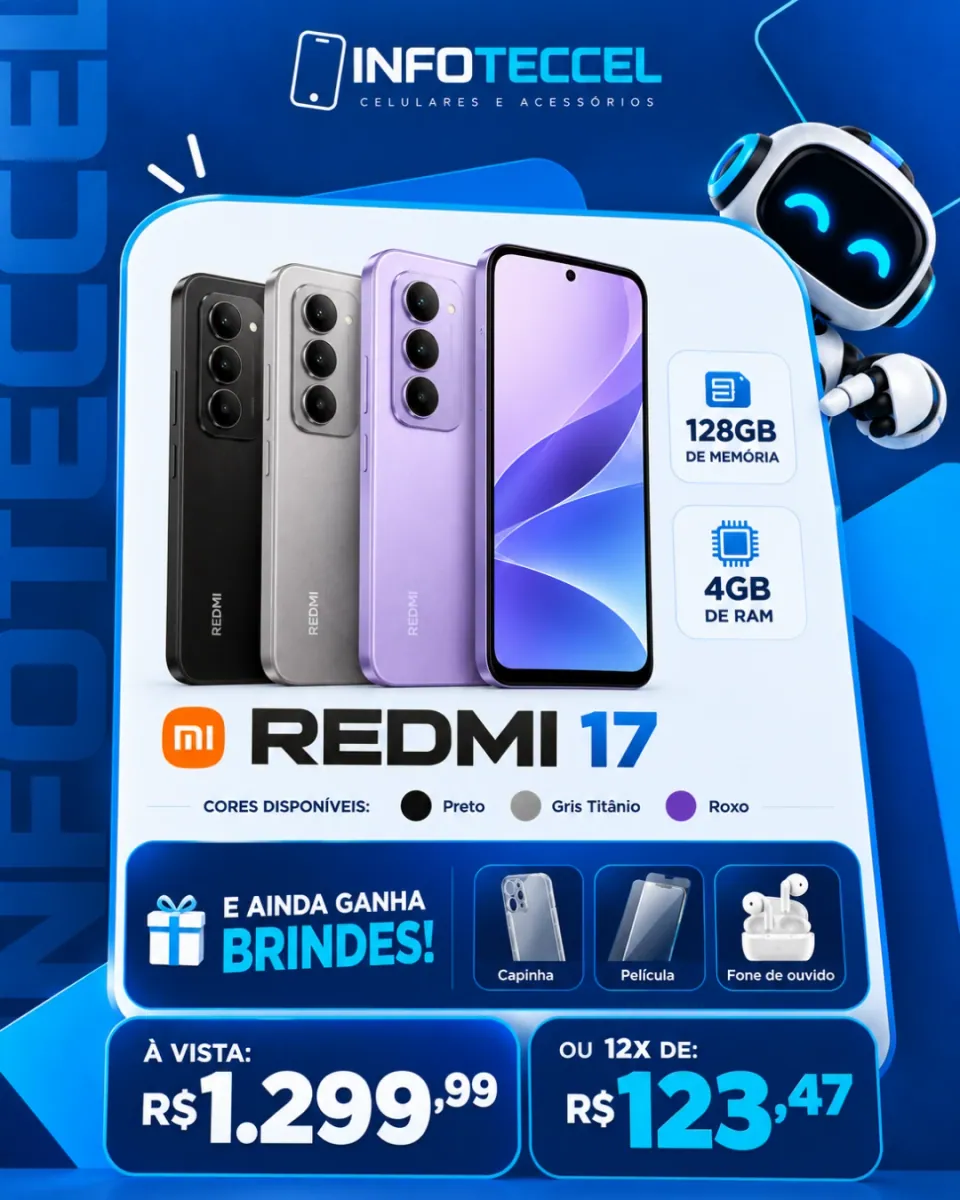
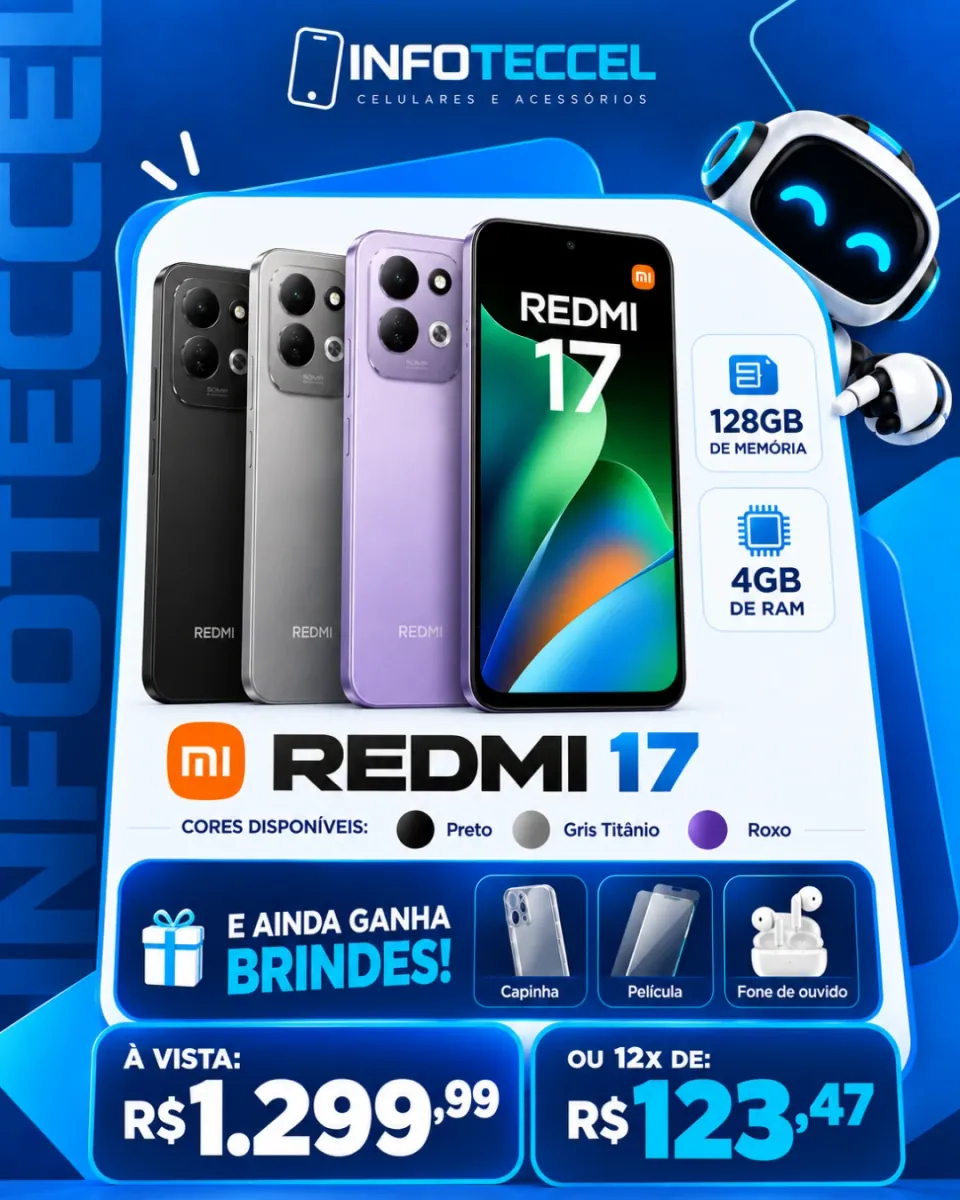
Troca arte do Redmi 17 e adiciona Galaxy A07 nas promocoes
- Nova arte do Redmi 17
- Samsung Galaxy A07: R$ 899,00 a vista ou 12x de R$ 83,34
- Grade de ofertas 3 por linha no desktop, ultimos centralizados

diff --git a/js/main.js b/js/main.js
@@ -305,6 +305,7 @@
   /* promoções (cards flutuantes) — edite aqui: preço à vista, parcela 12x, specs */
   const PROMOS = [
     { id: 'redmi-17', cat: 'promo', title: 'Redmi 17', specs: '128GB · 4GB RAM', avista: '1.299,99', parcela: '123,47', cores: 'Preto, Gris Titânio e Roxo' },
+    { id: 'galaxy-a07', cat: 'promo', title: 'Samsung Galaxy A07', specs: '128GB · 4GB RAM', avista: '899,00', parcela: '83,34' },
     { id: 'realme-c71', cat: 'promo', title: 'realme C71 NFC', specs: '128GB · 4GB RAM · NFC', avista: '1.099,00', parcela: '104,64', cores: 'Preto, Branco e Verde' },
     { id: 'redmi-note-17', cat: 'promo', title: 'Redmi Note 17', specs: '256GB · 8GB RAM', avista: '1.849,99', parcela: '175,99', cores: 'Preto, Prata e Azul' },
     { id: 'moto-g06', cat: 'promo', title: 'Moto G06', specs: '128GB · 4GB RAM', avista: '900,00', parcela: '85,62', cores: 'Preto, Verde e Roxo' }
@@ -359,7 +360,7 @@
   promoGrid.innerHTML = PROMOS.map((p, i) => `
     <article class="fcard" style="--fd:${(i * -1.7).toFixed(1)}s;--dur:${(6 + (i % 3) * 1.1).toFixed(1)}s">
       <button class="fcard-media tilt" data-tilt data-idx="${i}" aria-label="Ampliar oferta ${p.title}">
-        <img src="${sm(p)}" srcset="${sm(p)} 520w, ${lg(p)} 960w" sizes="(min-width:1100px) 280px,(min-width:760px) 40vw,76vw"
+        <img src="${sm(p)}" srcset="${sm(p)} 520w, ${lg(p)} 960w" sizes="(min-width:1100px) 380px,(min-width:760px) 40vw,76vw"
              alt="Promoção ${p.title}: ${p.price}, ou 12x de R$ ${p.parcela}" width="520" height="650" loading="lazy" decoding="async">
       </button>
       <div class="fcard-cap">

diff --git a/css/style.css b/css/style.css
@@ -542,13 +542,15 @@ body.sheet-open{overflow:hidden}
 .fcard-cap small{display:block;color:var(--muted);font-size:.74rem;margin-top:3px;line-height:1.3}
 .fcard-cap .btn{flex:none;padding:10px 14px;font-size:.82rem}
 @media (min-width:760px){
-  .fgrid{display:grid;grid-template-columns:repeat(2,1fr);overflow:visible;gap:30px 22px;padding:30px 0 40px;margin-inline:0;justify-items:center}
-  .fcard{flex:none;width:100%;max-width:330px}
+  .fgrid{display:flex;flex-wrap:wrap;justify-content:center;overflow:visible;gap:36px 24px;padding:30px 0 40px;margin-inline:0;scroll-snap-type:none}
+  .fcard{flex:none;width:calc((100% - 24px) / 2);max-width:340px}
   .fcard:nth-child(even){margin-top:40px}
 }
 @media (min-width:1100px){
-  .fgrid{grid-template-columns:repeat(4,1fr);gap:22px}
-  .fcard:nth-child(even){margin-top:56px}
+  .fgrid{gap:44px 30px}
+  .fcard{width:calc((100% - 60px) / 3);max-width:380px}
+  .fcard:nth-child(even){margin-top:0}
+  .fcard:nth-child(3n+2){margin-top:48px}
 }
 @media (prefers-reduced-motion:reduce){ .fcard{animation:none} }
 @media (min-width:760px) and (max-width:1060px){ .nav-links a{padding:9px 7px;font-size:.84rem} }
